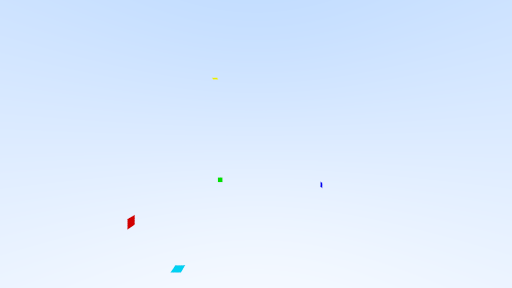
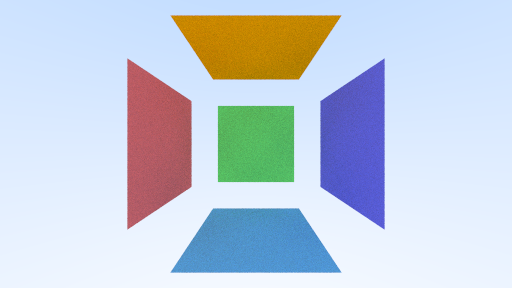
Quad size bug fix

diff --git a/src/hittable.hpp b/src/hittable.hpp
@@ -110,9 +110,10 @@ namespace art {
 	class Quad : public Hittable {
 	public:
 		Quad(const glm::vec3 &Q, const glm::vec3 &u, const glm::vec3 &v, Material *mat) : m_Q(Q), m_u(u), m_v(v), m_mat(mat) {
-			m_N = glm::normalize(glm::cross(u, v));
+			glm::vec3 n = glm::cross(u, v);
+			m_N = glm::normalize(n);
 			m_D = glm::dot(m_N, Q);
-			m_w = m_N / glm::dot(m_N, m_N);
+			m_w = n / glm::dot(n, n);
 		}
 
 		bool Hit(const Ray& r, Interval tSpan, HitInfo& hitInfo) const override {
